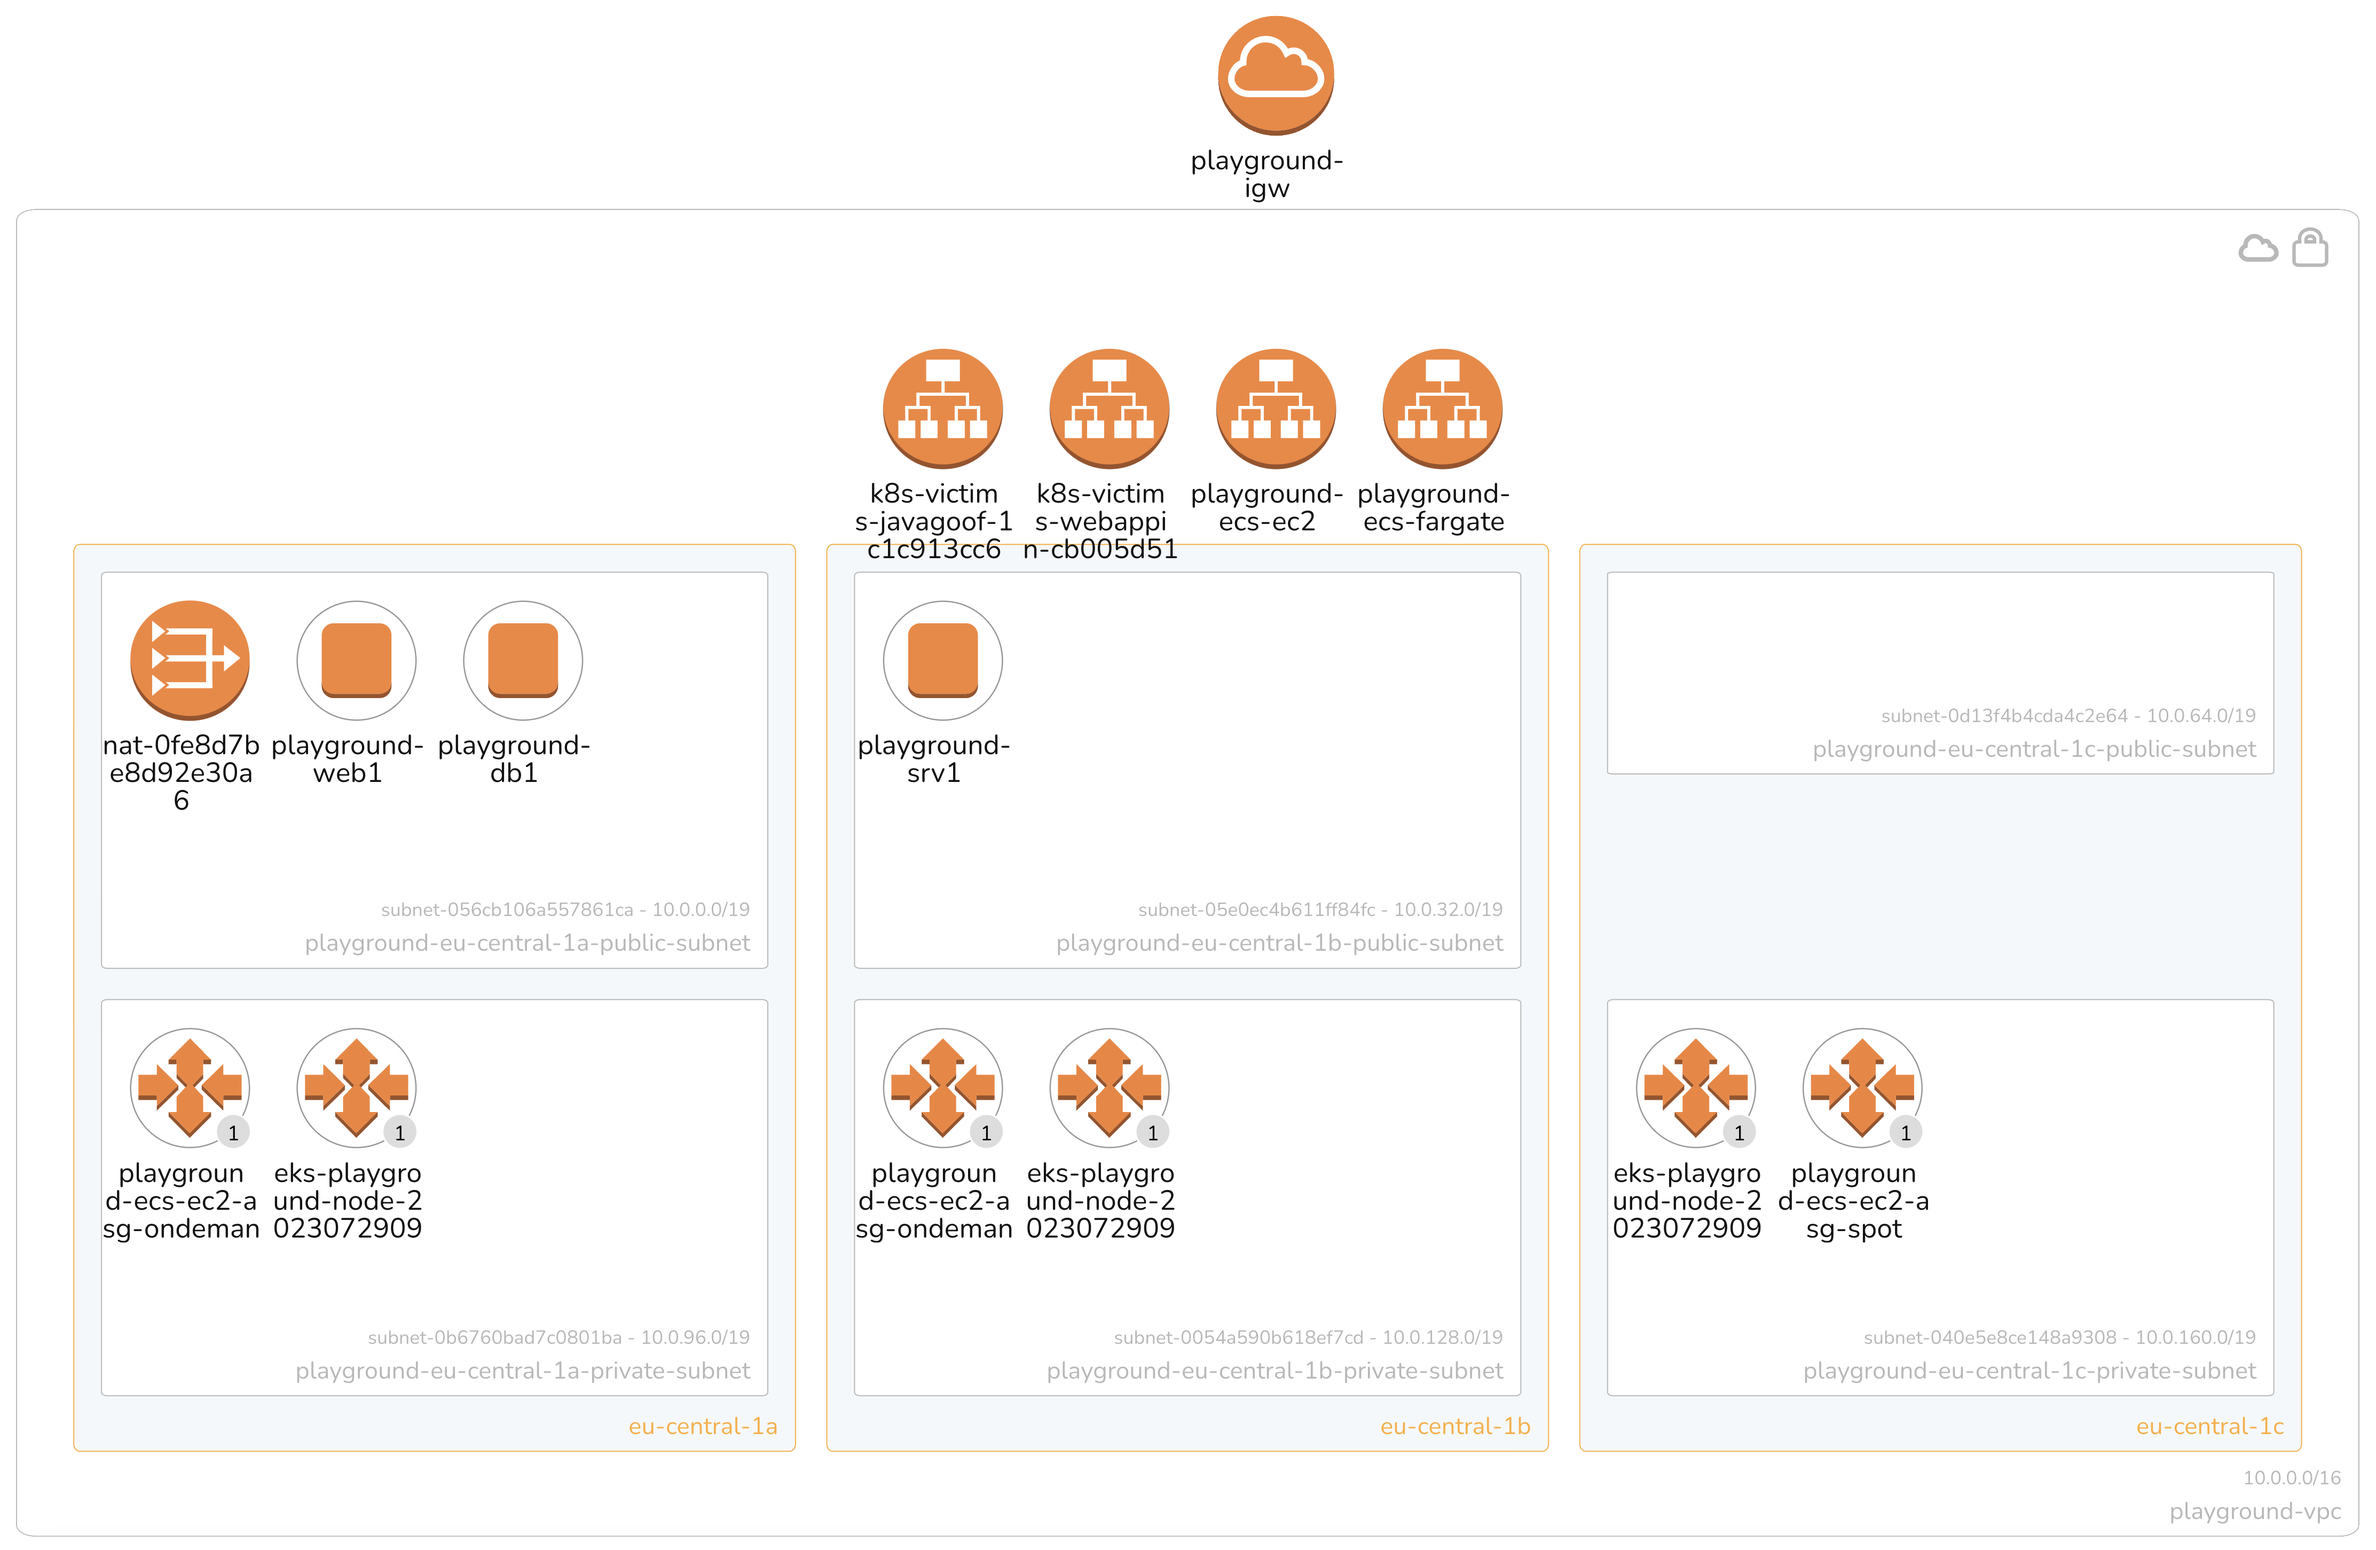
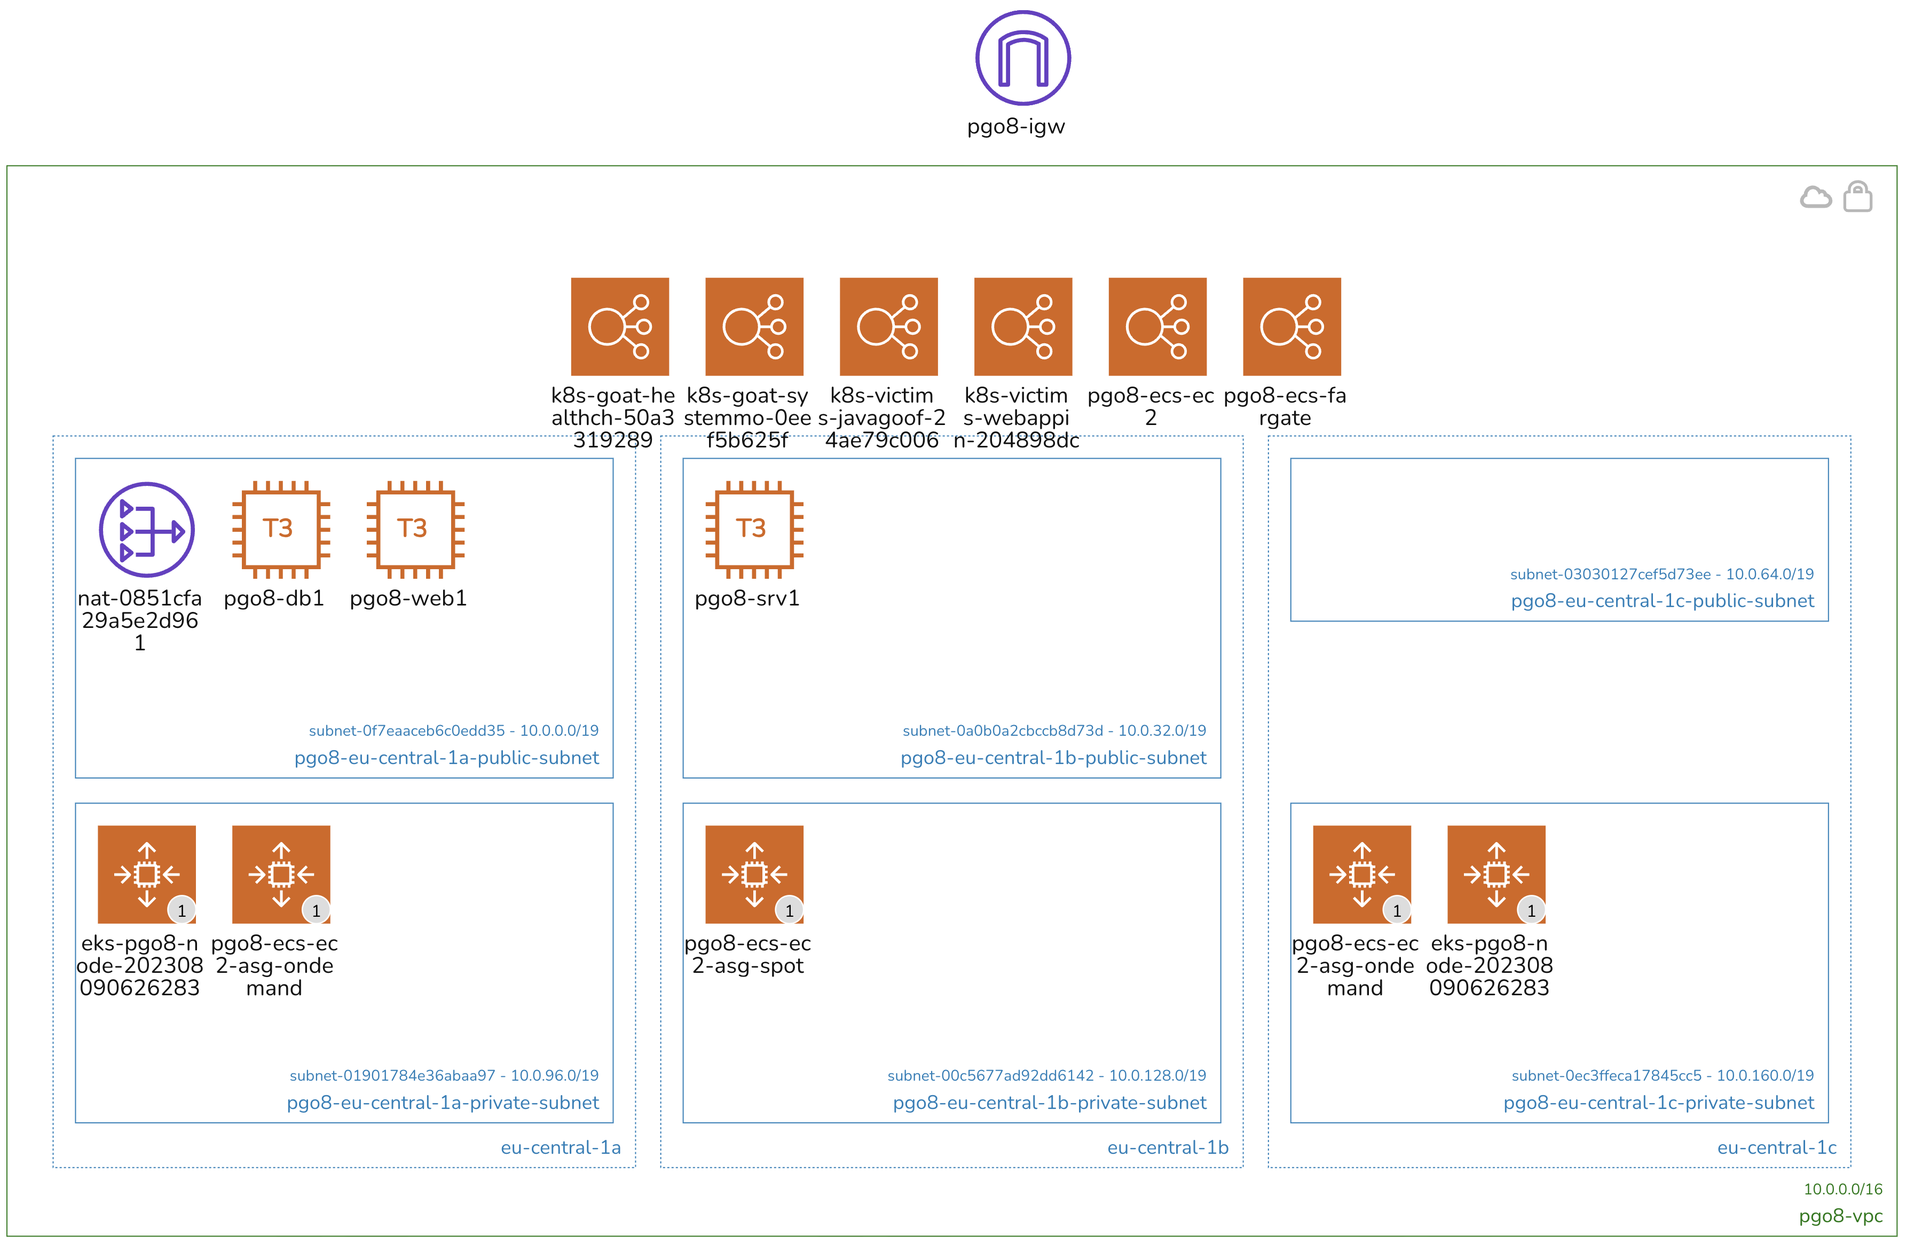
scenario

diff --git a/docs/integrations/container-security/index.html b/docs/integrations/container-security/index.html
@@ -796,56 +796,24 @@
 </blockquote>
 <h2 id="setup-of-container-security-with-the-playground-one">Setup of Container Security with the Playground One<a class="headerlink" href="#setup-of-container-security-with-the-playground-one" title="Permanent link">&para;</a></h2>
 <p>Container Security is automatically deployed to the EKS cluster of Playground One. If you provided a proper Cloud One information it is already up and running.</p>
-<p>Required information in <code>config.yaml</code>:</p>
+<p>Required information:</p>
 <ul>
 <li>Trend Cloud One API Key</li>
 <li>Trend Cloud One Region</li>
+</ul>
+<p>Optional information:</p>
+<ul>
 <li>Container Security Policy ID</li>
 </ul>
 <p>To get the Policy ID head over to Container Security on Cloud One and navigate to the policy. The Policy ID is the part after the last <code>/</code> in the URL:</p>
 <div class="highlight"><pre><span></span><code><a id="__codelineno-0-1" name="__codelineno-0-1" href="#__codelineno-0-1"></a>https://cloudone.trendmicro.com/container/policies/relaxed_playground-2OxPQEiC6Jo4dbDVfebKiZMured
 </code></pre></div>
 <p>Here: <code>relaxed_playground-2OxPQEiC6Jo4dbDVfebKiZMured</code></p>
-<p>Relevant sections in <code>config.yaml</code> with example values:</p>
-<div class="highlight"><pre><span></span><code><a id="__codelineno-1-1" name="__codelineno-1-1" href="#__codelineno-1-1"></a><span class="nt">services</span><span class="p">:</span>
-<a id="__codelineno-1-2" name="__codelineno-1-2" href="#__codelineno-1-2"></a><span class="w">  </span><span class="p p-Indicator">-</span><span class="w"> </span><span class="nt">name</span><span class="p">:</span><span class="w"> </span><span class="l l-Scalar l-Scalar-Plain">cloudone</span>
-<a id="__codelineno-1-3" name="__codelineno-1-3" href="#__codelineno-1-3"></a><span class="w">    </span><span class="c1">## Cloud One region to work with</span>
-<a id="__codelineno-1-4" name="__codelineno-1-4" href="#__codelineno-1-4"></a><span class="w">    </span><span class="c1">## </span>
-<a id="__codelineno-1-5" name="__codelineno-1-5" href="#__codelineno-1-5"></a><span class="w">    </span><span class="c1">## Default value: trend-us-1</span>
-<a id="__codelineno-1-6" name="__codelineno-1-6" href="#__codelineno-1-6"></a><span class="w">    </span><span class="nt">region</span><span class="p">:</span><span class="w"> </span><span class="l l-Scalar l-Scalar-Plain">us-1</span>
-<a id="__codelineno-1-7" name="__codelineno-1-7" href="#__codelineno-1-7"></a>
-<a id="__codelineno-1-8" name="__codelineno-1-8" href="#__codelineno-1-8"></a><span class="w">    </span><span class="c1">## Cloud One instance to use</span>
-<a id="__codelineno-1-9" name="__codelineno-1-9" href="#__codelineno-1-9"></a><span class="w">    </span><span class="c1">##</span>
-<a id="__codelineno-1-10" name="__codelineno-1-10" href="#__codelineno-1-10"></a><span class="w">    </span><span class="c1">## Allowed values: cloudone, staging-cloudone, dev-cloudone</span>
-<a id="__codelineno-1-11" name="__codelineno-1-11" href="#__codelineno-1-11"></a><span class="w">    </span><span class="c1">## </span>
-<a id="__codelineno-1-12" name="__codelineno-1-12" href="#__codelineno-1-12"></a><span class="w">    </span><span class="c1">## Default value: cloudone</span>
-<a id="__codelineno-1-13" name="__codelineno-1-13" href="#__codelineno-1-13"></a><span class="w">    </span><span class="nt">instance</span><span class="p">:</span><span class="w"> </span><span class="l l-Scalar l-Scalar-Plain">cloudone</span>
-<a id="__codelineno-1-14" name="__codelineno-1-14" href="#__codelineno-1-14"></a>
-<a id="__codelineno-1-15" name="__codelineno-1-15" href="#__codelineno-1-15"></a><span class="w">    </span><span class="c1">## Cloud One API Key with Full Access</span>
-<a id="__codelineno-1-16" name="__codelineno-1-16" href="#__codelineno-1-16"></a><span class="w">    </span><span class="c1">## </span>
-<a id="__codelineno-1-17" name="__codelineno-1-17" href="#__codelineno-1-17"></a><span class="w">    </span><span class="c1">## REQUIRED if you want to play with Cloud One</span>
-<a id="__codelineno-1-18" name="__codelineno-1-18" href="#__codelineno-1-18"></a><span class="w">    </span><span class="c1">##</span>
-<a id="__codelineno-1-19" name="__codelineno-1-19" href="#__codelineno-1-19"></a><span class="w">    </span><span class="c1">## Default value: &#39;&#39;</span>
-<a id="__codelineno-1-20" name="__codelineno-1-20" href="#__codelineno-1-20"></a><span class="w">    </span><span class="nt">api_key</span><span class="p">:</span><span class="w"> </span><span class="l l-Scalar l-Scalar-Plain">tmc1234567890...</span>
-<a id="__codelineno-1-21" name="__codelineno-1-21" href="#__codelineno-1-21"></a>
-<a id="__codelineno-1-22" name="__codelineno-1-22" href="#__codelineno-1-22"></a><span class="p p-Indicator">-</span><span class="w"> </span><span class="nt">name</span><span class="p">:</span><span class="w"> </span><span class="l l-Scalar l-Scalar-Plain">container_security</span>
-<a id="__codelineno-1-23" name="__codelineno-1-23" href="#__codelineno-1-23"></a><span class="w">    </span><span class="l l-Scalar l-Scalar-Plain">## The id of the policy for use with AWSONE</span>
-<a id="__codelineno-1-24" name="__codelineno-1-24" href="#__codelineno-1-24"></a><span class="w">    </span><span class="l l-Scalar l-Scalar-Plain">##</span><span class="w"> </span>
-<a id="__codelineno-1-25" name="__codelineno-1-25" href="#__codelineno-1-25"></a><span class="w">    </span><span class="l l-Scalar l-Scalar-Plain">## Default value</span><span class="p p-Indicator">:</span><span class="w"> </span><span class="s">&#39;&#39;</span>
-<a id="__codelineno-1-26" name="__codelineno-1-26" href="#__codelineno-1-26"></a><span class="w">    </span><span class="nt">policy_id</span><span class="p">:</span><span class="w"> </span><span class="l l-Scalar l-Scalar-Plain">relaxed_playground-2OxPQEiC6Jo4dbDVfebKiZMured</span>
-<a id="__codelineno-1-27" name="__codelineno-1-27" href="#__codelineno-1-27"></a>
-<a id="__codelineno-1-28" name="__codelineno-1-28" href="#__codelineno-1-28"></a><span class="nn">...</span>
-</code></pre></div>
+<p>If you don't configure a policy ID you'll need to assign one within the Cloud One console.</p>
 <h2 id="scenarios">Scenarios<a class="headerlink" href="#scenarios" title="Permanent link">&para;</a></h2>
 <ul>
 <li><a href="../../scenarios/container-security-eks-escape/">Escape to the Host System</a></li>
-</ul>
-<p>TODO</p>
-<ul>
-<li><a href="../../scenarios/container-security-eks-privileged-shell/">Gain a Privileged Shell</a></li>
-<li><a href="../../scenarios/container-security-eks-runtime-violations/">Generate Runtime Violations</a></li>
-<li><a href="../../scenarios/container-security-eks-runtime-vulnerability/">Find Runtime Vulnerabilities</a></li>
-<li>...</li>
+<li><a href="../../scenarios/container-security-eks-dind-exploitation/">ContainerD Abuse</a></li>
 </ul>
 
 

diff --git a/docs/how-it-works/configurations/index.html b/docs/how-it-works/configurations/index.html
@@ -330,6 +330,13 @@
   
 </li>
         
+          <li class="md-nav__item">
+  <a href="#scenarios" class="md-nav__link">
+    Scenarios
+  </a>
+  
+</li>
+        
       </ul>
     </nav>
   
@@ -817,6 +824,13 @@
   
 </li>
         
+          <li class="md-nav__item">
+  <a href="#scenarios" class="md-nav__link">
+    Scenarios
+  </a>
+  
+</li>
+        
       </ul>
     </nav>
   
@@ -854,9 +868,9 @@
 <a id="__codelineno-0-6" name="__codelineno-0-6" href="#__codelineno-0-6"></a>    └── ecs (5-cluster-ecs)
 </code></pre></div>
 <p>As we can see, the configuration <code>network</code> is the base for the other configurations. It creates the VPC, Subnets, Route Tables, Security Groups, etc. One can choose to only create the EKS cluster, or ECS cluster, or even the full stack. Everything will reside in the same VPC.</p>
-<p><em>Architecture:</em></p>
+<p><em>Architecture: Example environment name <code>pgo8</code></em></p>
 <p><img alt="alt text" src="../images/architecture.png" title="Architecture diagram" /></p>
-<p><em>Security Groups:</em> TODO: UPDATE</p>
+<p><em>Security Groups: Example environment name <code>pgo8</code></em></p>
 <p><img alt="alt text" src="../images/security-groups.png" title="Security Groups" /></p>
 <p>The following chapters describe the different configurations on a high level, refer the the dedicated documentation for more details.</p>
 <h2 id="virtual-private-cloud-and-network">Virtual Private Cloud and Network<a class="headerlink" href="#virtual-private-cloud-and-network" title="Permanent link">&para;</a></h2>
@@ -887,8 +901,16 @@
 <ul>
 <li>Container Security</li>
 <li>Trivy</li>
-<li>Vulnerable Java-Goof</li>
-<li>Vulnerable Web App (openssl)</li>
+</ul>
+<h3 id="scenarios">Scenarios<a class="headerlink" href="#scenarios" title="Permanent link">&para;</a></h3>
+<p><em>Configuration located in <code>awsone/7-scenarios</code></em></p>
+<p><em>Depends on <code>awsone/4-cluster-eks</code></em></p>
+<p>Currently, the following (vulnerable) deployments are defined:</p>
+<ul>
+<li>WebApp System-Monitor (see <a href="../../scenarios/container-security-eks-escape/">Escape to the Host System</a>)</li>
+<li>WebApp Health-Check (see <a href="../../scenarios/container-security-eks-dind-exploitation/">ContainerD Abuse</a>)</li>
+<li>Java-Goof</li>
+<li>WebApp OpenSSL3</li>
 </ul>
 <h2 id="ecs-clusters">ECS Clusters<a class="headerlink" href="#ecs-clusters" title="Permanent link">&para;</a></h2>
 <p><em>Configuration located in <code>awsone/5-cluster-ecs</code></em></p>
@@ -900,6 +922,10 @@
 <li>ALB Load Balancer</li>
 <li>Located in the private subnets</li>
 <li>Automatic deployment of a vulnerable service (Java-Goof)</li>
+</ul>
+<p>Currently, the following (vulnerable) service is defined:</p>
+<ul>
+<li>Java-Goof</li>
 </ul>
 
 

diff --git a/docs/integrations/endpoint-security/index.html b/docs/integrations/endpoint-security/index.html
@@ -826,6 +826,8 @@
 <p>All instances can be integrated with Vision One Endpoint Security for Server &amp; Workload Protection and have access to the Atomic Launcher (if provided).</p>
 <p>The instances are created within a public subnet of Playground One's VPC. They all get an EC2 instance role assigned providing them the ability to access installer packages stored within an S3 bucket.</p>
 <p>All instances including the Windows Server are accessible via ssh and key authentication. RDP for Windows is supported in addition to this.</p>
+<p><em>Server &amp; Workload Protection: Example with full stack deployment</em></p>
+<p><img alt="alt text" src="../images/server-and-workload-protection.png" title="Security Groups" /></p>
 <h2 id="optional-drop-vision-one-installer-packages">Optional: Drop Vision One Installer Packages<a class="headerlink" href="#optional-drop-vision-one-installer-packages" title="Permanent link">&para;</a></h2>
 <p>If you want the instances automatically to be activated against your Server and Workload Protection Manager instance you need to download the installer packages for Vision One Endpoint Security for Windows and/or Linux from your Vision One instance. You need to do this manually since these installers are specific to your environment.</p>
 <p>The downloaded files are named something similar like</p>

diff --git a/docs/integrations/xdr-for-containers/index.html b/docs/integrations/xdr-for-containers/index.html
@@ -811,7 +811,9 @@
 <li>VPC Region</li>
 </ul>
 <p>Follow the deployment instructions from Vision One. You can query your <code>AWS VPC ID</code> by running <code>pgo --output nw</code>.</p>
-<p>Make sure to deploy the stack in the region of the VPC when pressing <code>[Launch Stack]</code>.</p>
+<blockquote>
+<p><strong><em>Note:</em></strong> Make sure to deploy the stack in the region of the VPC when pressing <code>[Launch Stack]</code>.</p>
+</blockquote>
 <p><img alt="alt text" src="../images/xdr-for-containers-01.png" title="Connect VPC" /></p>
 <p>All provided clusters from Playground One can be used with XDR for Containers.</p>
 <h2 id="scenarios">Scenarios<a class="headerlink" href="#scenarios" title="Permanent link">&para;</a></h2>

diff --git a/docs/scenarios/container-security-eks-escape/index.html b/docs/scenarios/container-security-eks-escape/index.html
@@ -928,12 +928,12 @@
 <details>
 <summary>Click here</summary>
 
-*✨ Are you still in the container?*<br>
-
-See the mounted file systems, also look the capabilities available for the container using capsh 🙌<br>
-<br>
-*✨ Escaped container?*<br>
-
+✨ Are you still in the container?
+<br><br>
+See the mounted file systems, also look the capabilities available for the container using capsh 🙌<
+<br><br>
+✨ Escaped container?
+<br><br>
 You can recon the system, some interesting places to obtain the node level configuration are `/var/lib/kubelet/kubeconfig` and I hope you know how to query Kubernetes API for nodes? 🎉<br>
 
 </details>
